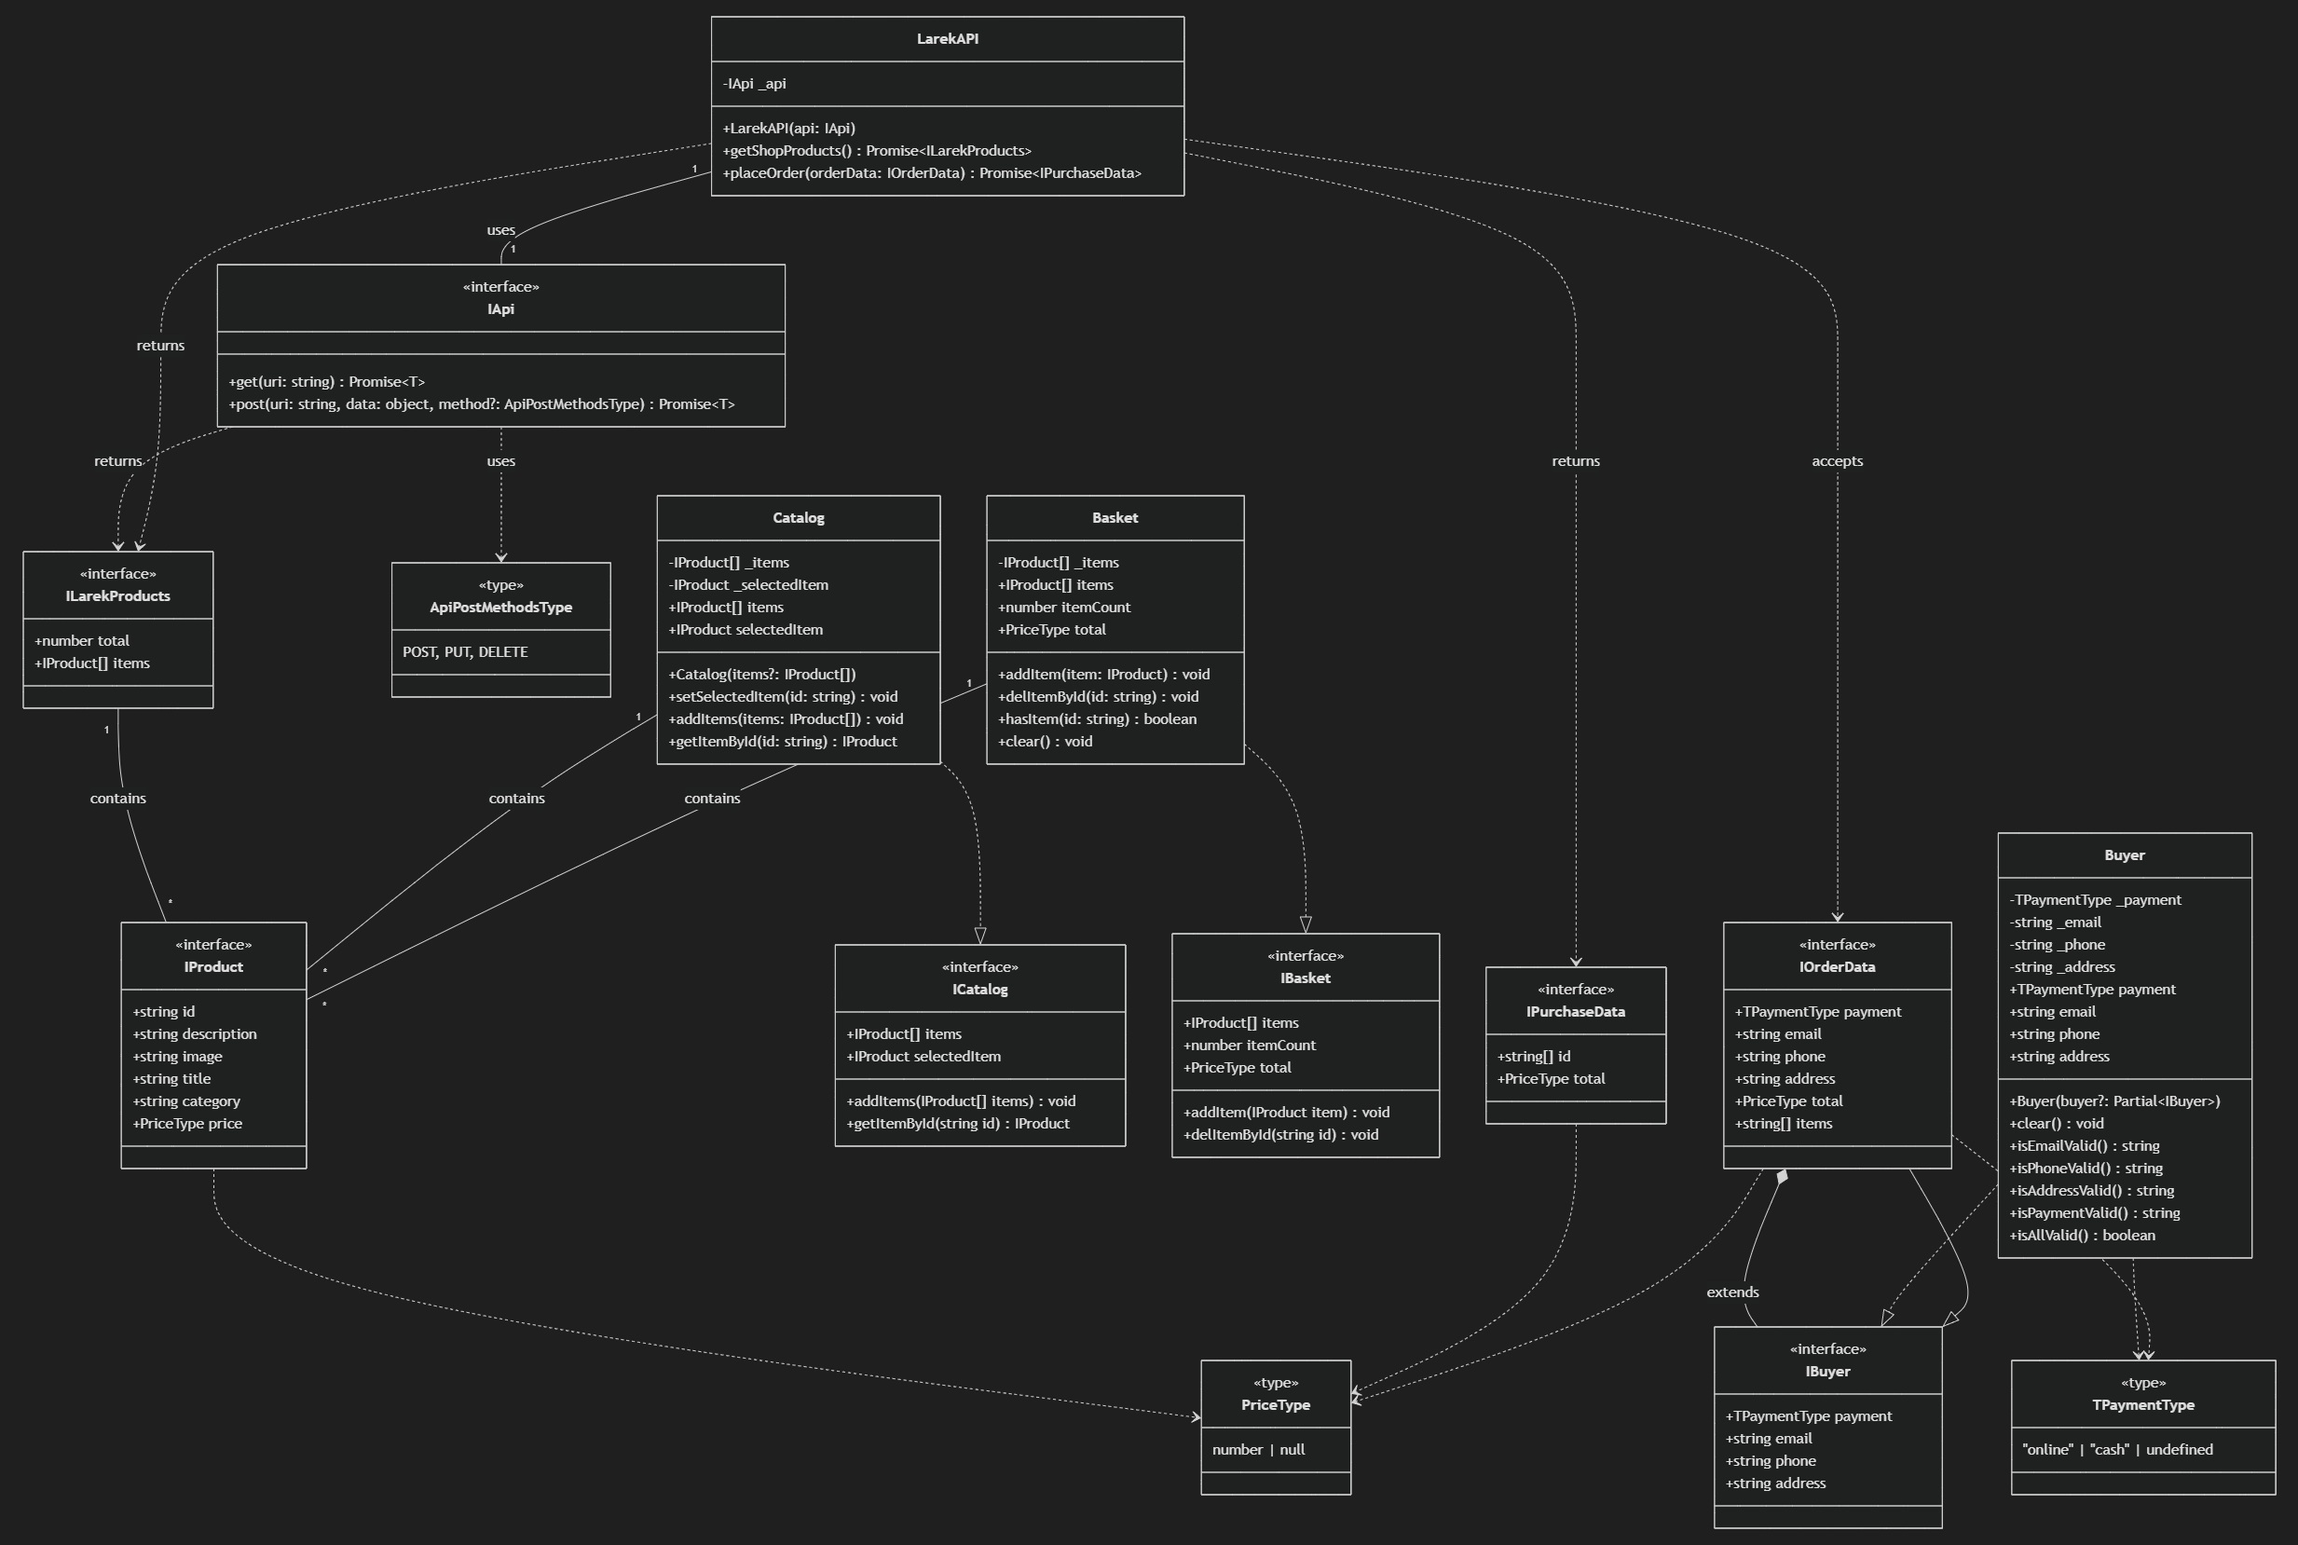
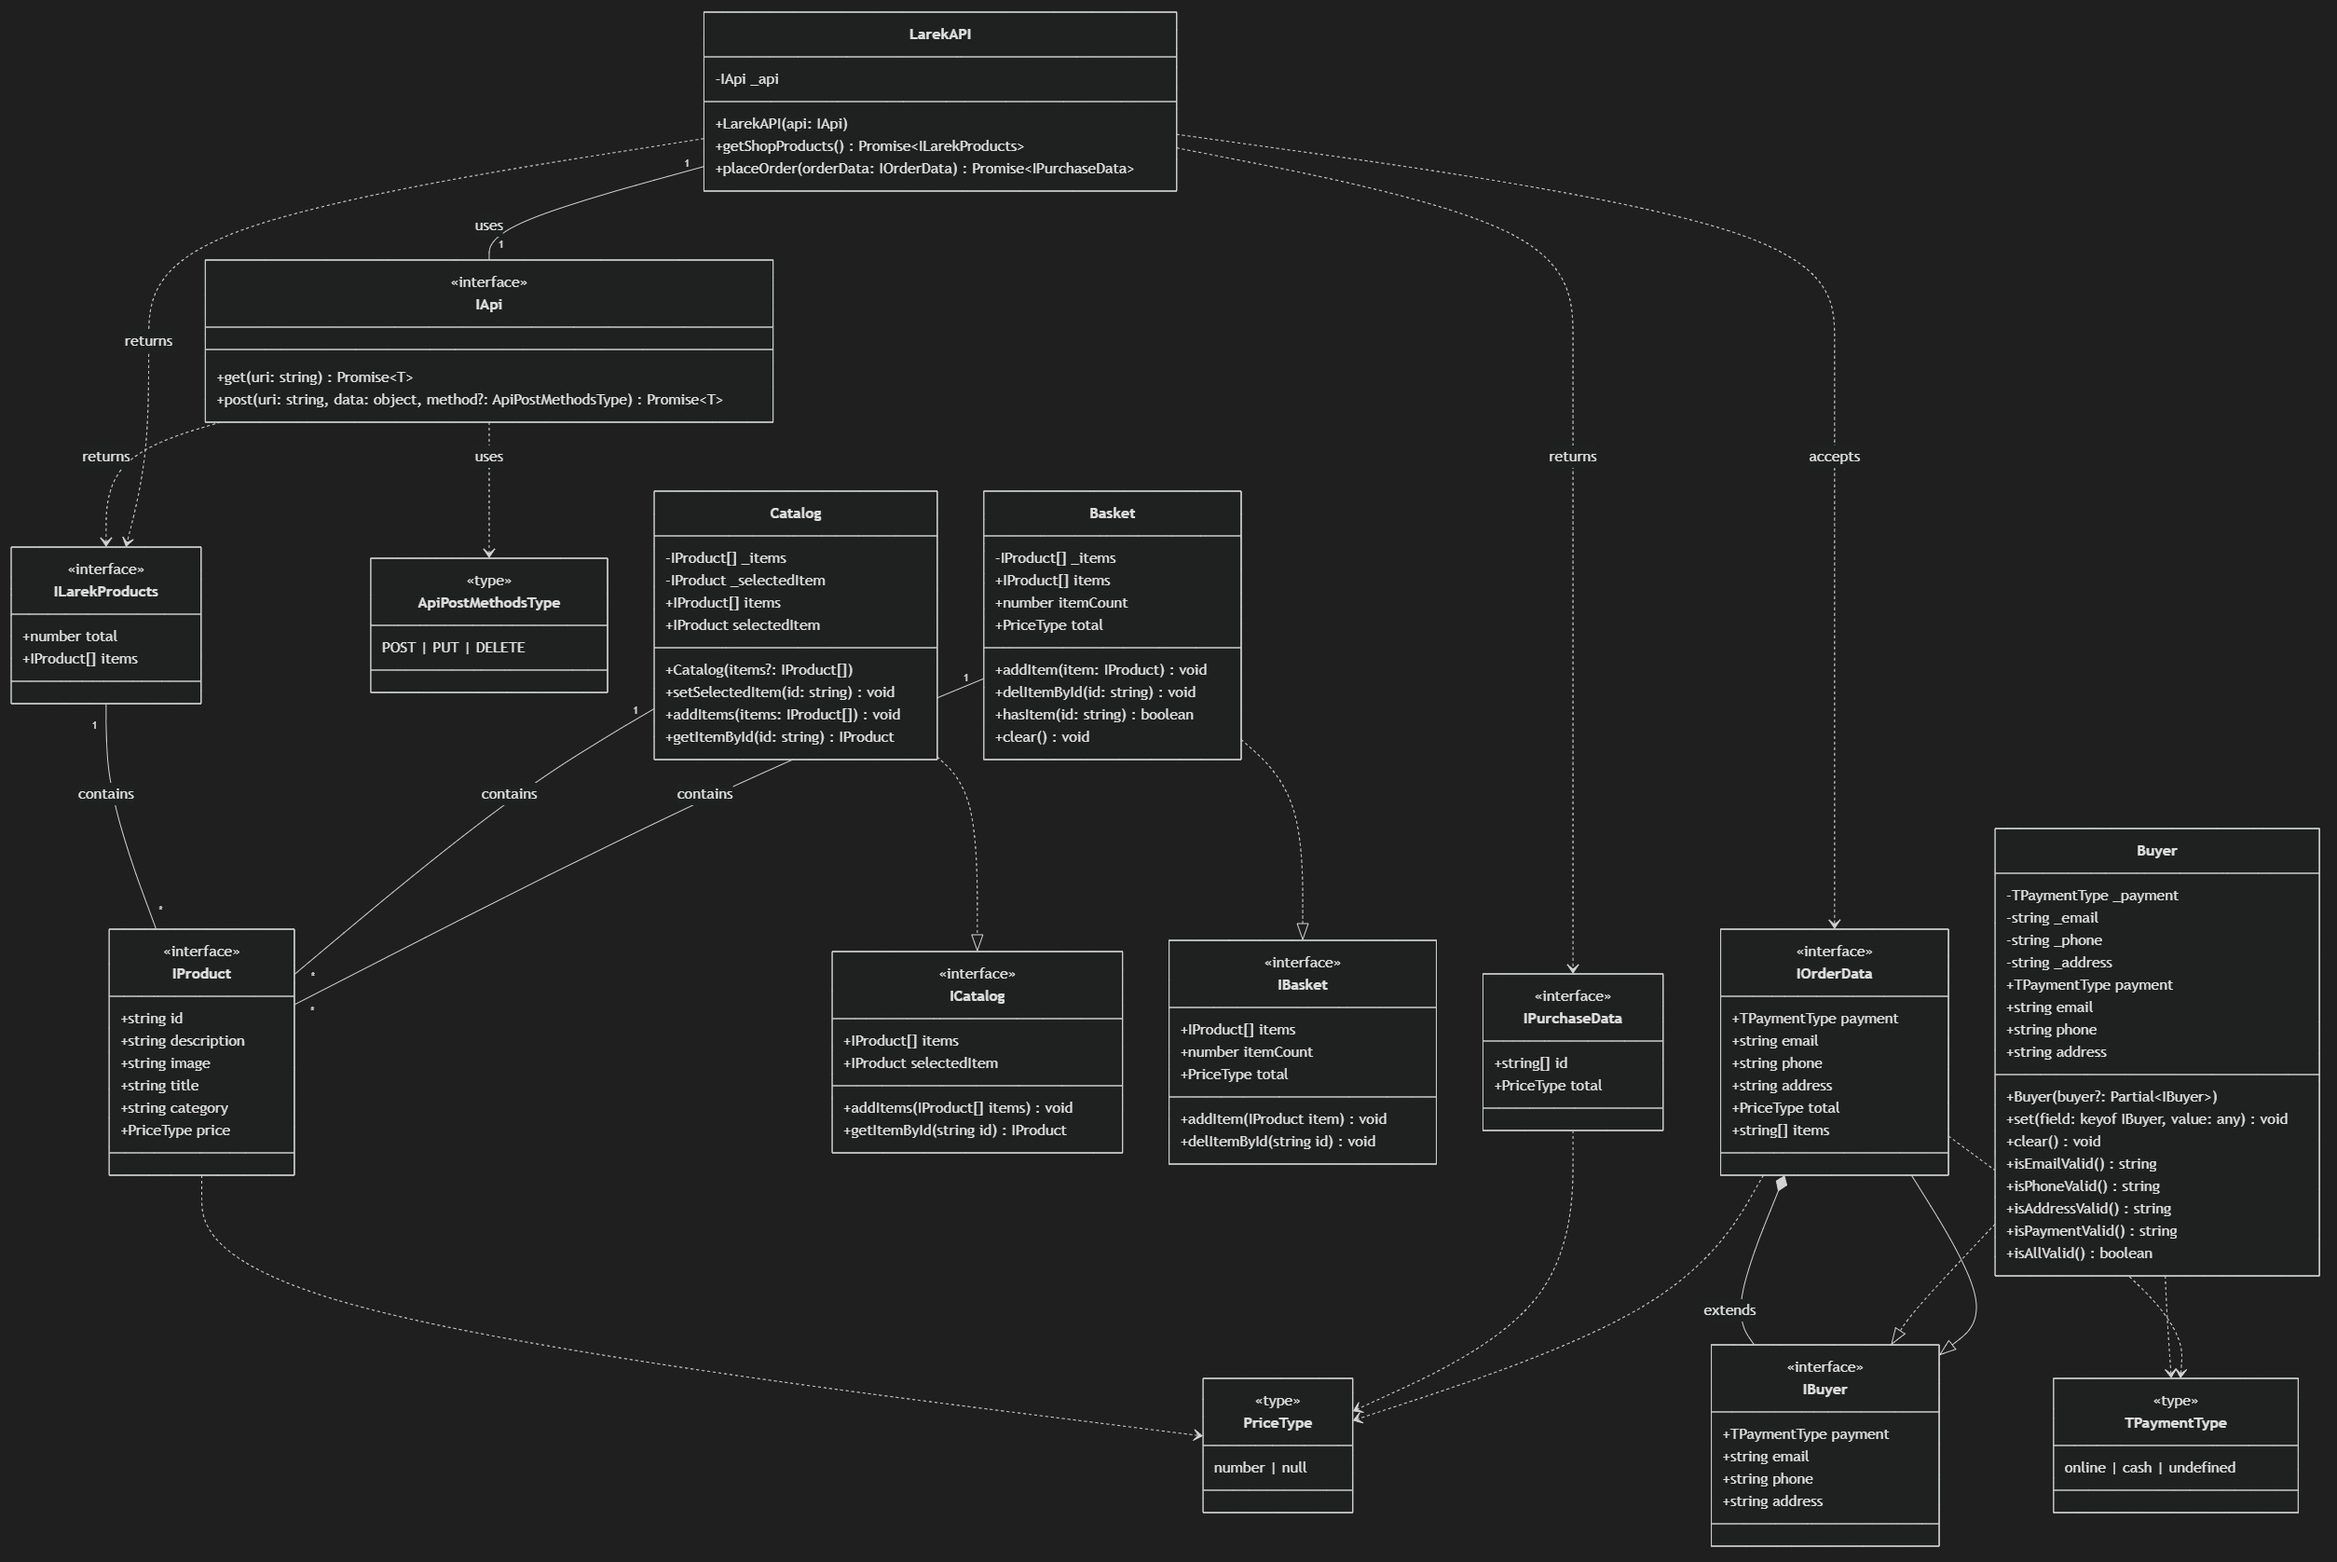
rс4.29

diff --git a/README.md b/README.md
@@ -263,7 +263,7 @@ yarn build
 
 ##### Методы
 
-- для каждого отдельного свойства покупателя определены геттеры и сеттеры, принимающие и возвращающие данные соответствующих типов;
+- `set<K extends keyof IBuyer>(field: K, value: IBuyer[K])` - универсальный метод, принимающий имя (без префикса "_") и значение свойства покупателя, соответствующее интерфейсу `IBuyer` и задающий его соответствующему защищенному свойству (с префиксом "_");
 - `clear()` - очистка всех полей экземпляра `Buyer` путем сброса к их начальным значениям:
 - `isEmailValid()`, `isPhoneValid()`, `isAddressValid()`, `isPaymentValid()` - метод проверки валидности каждого отдельного полей покупателя, возвращающие пустую строку, если значение валидное, и текстовое сообщение о типе ошибки валидации, если нет (перед проверкой у всех строковых полей удаляются начальные и завершающие пробелы);
   - `isAllValid()` - метод проверки валидности всех полей покупателя, возвращаюий `true`, если все поля валидные, и `false`, если нет (валидация выполняется на основе методов проверки валидности каждого из полей `Buyer`).

diff --git a/src/public/app-uml.md b/src/public/app-uml.md
@@ -74,12 +74,12 @@ classDiagram
 
     class TPaymentType {
         <<type>>
-        "online" | "cash" | undefined
+        online | cash | undefined
     }
 
     class ApiPostMethodsType {
         <<type>>
-        POST, PUT, DELETE
+        POST | PUT | DELETE
     }
 
     %% Классы
@@ -111,6 +111,7 @@ classDiagram
         -string _phone
         -string _address
         +Buyer(buyer?: Partial~IBuyer~)
+        +set(field: keyof IBuyer, value: any) void
         +TPaymentType payment
         +string email
         +string phone
@@ -150,16 +151,16 @@ classDiagram
     IProduct ..> PriceType
     Buyer ..> TPaymentType
     
-    %% Связи LarekAPI с возвращаемыми типами
+    %% Связи LarekAPI
     LarekAPI ..> ILarekProducts : returns
     LarekAPI ..> IPurchaseData : returns
     LarekAPI ..> IOrderData : accepts
     
-    %% Связи IApi с типами
+    %% Связи IApi
     IApi ..> ApiPostMethodsType : uses
     IApi ..> ILarekProducts : returns
     
-    %% Связи ILarekProducts с IProduct
+    %% Связи ILarekProducts
     ILarekProducts "1" -- "*" IProduct : contains
 
     %% Композиция
